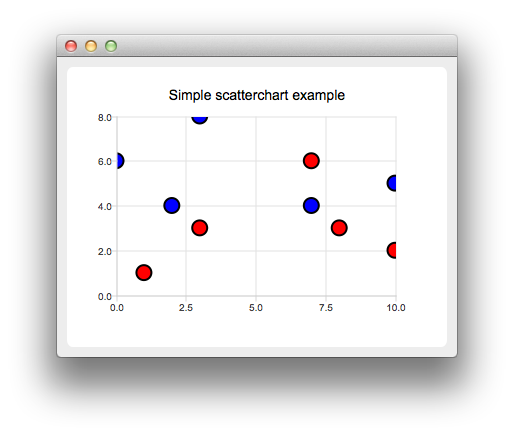
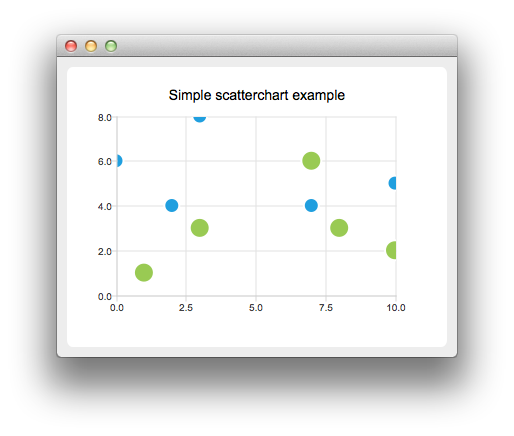
Fixed presenter and scatter examples and their documentation.

diff --git a/qtcharts/examples/scatterchart/main.cpp b/qtcharts/examples/scatterchart/main.cpp
@@ -20,8 +20,7 @@
 
 #include <QtGui/QApplication>
 #include <QMainWindow>
-#include <QChartView>
-#include <QScatterSeries>
+#include "chartview.h"
 
 QTCOMMERCIALCHART_USE_NAMESPACE
 
@@ -29,54 +28,13 @@ int main(int argc, char *argv[])
 {
     QApplication a(argc, argv);
 
-//![1]
-    QPen pen(Qt::black);
-    pen.setWidth(2);
-    QBrush blue(Qt::blue);
-    QBrush red(Qt::red);
-
-    QScatterSeries *series0 = new QScatterSeries();
-    series0->setPen(pen);
-    series0->setBrush(blue);
-    series0->setShape(QScatterSeries::MarkerShapeCircle);
-    series0->setSize(15.0);
-
-    QScatterSeries *series1 = new QScatterSeries();
-    series1->setPen(pen);
-    series1->setBrush(red);
-    series1->setShape(QScatterSeries::MarkerShapeCircle);
-    series1->setSize(15.0);
-//![1]
-
-//![2]
-    series0->append(0, 6);
-    series0->append(2, 4);
-    series0->append(3, 8);
-    series0->append(7, 4);
-    series0->append(10, 5);
-
-    *series1 << QPointF(1, 1) << QPointF(3, 3) << QPointF(7, 6) << QPointF(8, 3) << QPointF(10, 2);
-//![2]
-
-//![3]
-    QChart* chart = new QChart();
-
-    chart->addSeries(series0);
-    chart->addSeries(series1);
-    chart->setTitle("Simple scatterchart example");
-//![3]
-
 //![4]
-    QChartView* chartView = new QChartView(chart);
-    chartView->setRenderHint(QPainter::Antialiasing);
-//![4]
-
-//![5]
+    ChartView* chartView = new ChartView();
     QMainWindow window;
     window.setCentralWidget(chartView);
     window.resize(400, 300);
     window.show();
-//![5]
+//![4]
 
     return a.exec();
 }

diff --git a/qtcharts/examples/presenterchart/chartview.cpp b/qtcharts/examples/presenterchart/chartview.cpp
@@ -29,6 +29,7 @@ ChartView::ChartView(QChart* chart,QWidget* parent):QChartView(chart,parent),
 m_index(-1),m_chart(chart)
 {
     m_chart->setTitle("Charts presenter");
+    m_chart->setBackgroundDropShadowEnabled(false);
     QObject::connect(&m_timer,SIGNAL(timeout()),this,SLOT(handleTimeout()));
     m_timer.setInterval(3000);
 
@@ -78,11 +79,6 @@ m_index(-1),m_chart(chart)
     m_titles<< m_chart->title()+": AreaChart";
 //![3]
 
-//![4]
-    foreach (QAbstractSeries* series, m_series) {
-        QObject::connect(series,SIGNAL(clicked(QPointF)),this,SLOT(handlePointClicked(QPointF)));
-    }
-//![4]
     m_timer.start();
     handleTimeout();
 }
@@ -95,7 +91,7 @@ ChartView::~ChartView()
     qDeleteAll(m_series);
 }
 
-//![5]
+//![4]
 void ChartView::handleTimeout()
 {
     if(m_series.size()==0) return;
@@ -106,11 +102,4 @@ void ChartView::handleTimeout()
     m_chart->addSeries(m_series.at(m_index));
     m_chart->setTitle(m_titles.at(m_index));
 }
-//![5]
-
-//![6]
-void ChartView::handlePointClicked(const QPointF& point)
-{
-    m_chart->setTitle(m_titles.at(m_index) + QString(" x: %1 y: %2").arg(point.x()).arg(point.y()));
-}
-//![6]
+//![4]

diff --git a/qtcharts/examples/scatterchart/chartview.cpp b/qtcharts/examples/scatterchart/chartview.cpp
@@ -1,0 +1,34 @@
+#include "chartview.h"
+#include <QScatterSeries>
+
+ChartView::ChartView(QWidget *parent) :
+    QChartView(new QChart(), parent)
+{
+    //![1]
+    QScatterSeries *series0 = new QScatterSeries();
+    series0->setShape(QScatterSeries::MarkerShapeCircle);
+    series0->setSize(15.0);
+
+    QScatterSeries *series1 = new QScatterSeries();
+    series1->setShape(QScatterSeries::MarkerShapeCircle);
+    series1->setSize(20.0);
+    //![1]
+
+    //![2]
+    series0->append(0, 6);
+    series0->append(2, 4);
+    series0->append(3, 8);
+    series0->append(7, 4);
+    series0->append(10, 5);
+
+    *series1 << QPointF(1, 1) << QPointF(3, 3) << QPointF(7, 6) << QPointF(8, 3) << QPointF(10, 2);
+    //![2]
+
+    //![3]
+    setRenderHint(QPainter::Antialiasing);
+    chart()->addSeries(series0);
+    chart()->addSeries(series1);
+    chart()->setTitle("Simple scatterchart example");
+    chart()->setBackgroundDropShadowEnabled(false);
+    //![3]
+}

diff --git a/qtcharts/examples/presenterchart/main.cpp b/qtcharts/examples/presenterchart/main.cpp
@@ -31,7 +31,7 @@ int main(int argc, char *argv[])
     chart->axisY()->setNiceNumbersEnabled(true);
     ChartView chartView(chart,&window);
     chartView.setRenderHint(QPainter::Antialiasing);
-    chart->setAnimationOptions(QChart::AllAnimations);
+    chart->setAnimationOptions(QChart::SeriesAnimations);
     window.setCentralWidget(&chartView);
     window.resize(400, 300);
     window.show();

diff --git a/qtcharts/examples/scatterchart/chartview.h b/qtcharts/examples/scatterchart/chartview.h
@@ -1,0 +1,20 @@
+#ifndef CHARTVIEW_H
+#define CHARTVIEW_H
+
+#include <QChartView>
+
+QTCOMMERCIALCHART_USE_NAMESPACE
+
+class ChartView : public QChartView
+{
+    Q_OBJECT
+public:
+    explicit ChartView(QWidget *parent = 0);
+    
+signals:
+    
+public slots:
+    
+};
+
+#endif // CHARTVIEW_H

diff --git a/qtcharts/examples/presenterchart/chartview.h b/qtcharts/examples/presenterchart/chartview.h
@@ -36,7 +36,6 @@ public:
 
 public slots:
     void handleTimeout();
-    void handlePointClicked(const QPointF& point);
 
 private:
     QTimer m_timer;
